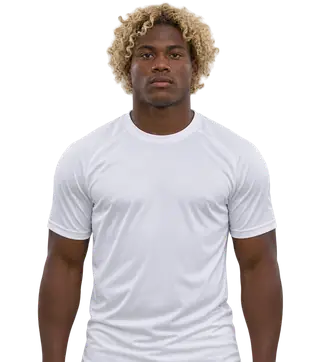
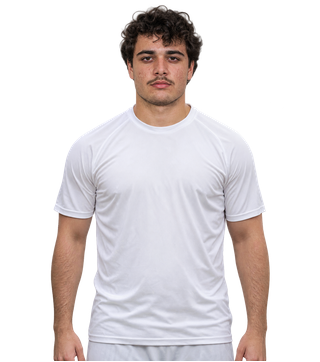
assets(portraits): complete 23/23 V4.1 WebP staging (#646)

Changed region(s): [[0.0938, 0.395, 0.9062, 1.0], [0.3125, 0.0, 0.6875, 0.395]]

diff --git a/docs/portrait-v41-integration-batch-2026-11-17.md b/docs/portrait-v41-integration-batch-2026-11-17.md
@@ -1,40 +1,49 @@
-# V4.1 portrait asset integration — partial batch (2026-11-17)
+# V4.1 portraits — 23/23 staged in Draft PR (2026-11-17)
 
 Issue #646 | PR #648 (Draft/HOLD)
 
-**Owner instruction:** integrate the portraits uploaded in ChatGPT, but **no merge, deployment, DEV/Production D1 writes, status/asset_key mutation or release**.
+**Scope of owner request:** integrate the uploaded portrait assets into the existing Draft PR only. **No merge, deploy, Production, DEV D1 update, portrait-profile status or asset_key mutation.** All V3 assets on `main` remain unchanged.
 
-## Staged in this Draft PR only
+## Staging history
 
-- **20 source PNG uploads actually available:** player IDs **44–63** inclusive. Each source file is native RGBA PNG, 1086×1448 vertical 3:4, with genuine alpha and zero-alpha corners.
-- For each ID, staged a **320×362 lossless transparent WebP** at the pre-existing path `assets/players/portraits/<id>.webp`. All 20 derivatives were decoded by Pillow and FFmpeg with **identical RGBA pixel arrays**, and measured significant alpha top **3–8px**, left/right subject clearance **>=20px** and horizontal centering **within ±8px**.
-- Original source PNGs are **not committed**, but are retained as user-provided local inputs. Exact source uploaded SHA-256 and staged WebP SHA-256 are in [the integration manifest](portrait-v41-integration-batch-2026-11-17.json).
-- **Explicit provenance limitation:** uploaded PNG SHA-256 hashes are not byte-identical to the original per-candidate hashes recorded in issue #646. These are identifiable user-supplied files by their ID basenames; the original issue-file byte identity is **not cryptographically re-proven**. This commit does not claim those old SHA checks apply to new byte streams. Visual preview and real-file technical QA were performed on the uploaded set.
-- **Not included yet:** #98 Arthur Kiesel, #145 Steven Sellen and #148 Craig Leaman. Three images were supplied inline after the 20 named PNG files, but **raw mountable PNG files were unavailable**, so those existing V3 WebPs remain untouched in the Draft branch. No image-to-ID inference from inline display.
-- The 23 V4.1 candidates have historical per-image QA reports in #646. This batch is **asset staging only**, not versioned V4.1 profile/snapshot migration.
-- **Release gate:** because this branch overwrites V3 asset paths for IDs 44–63, **do not merge before all intended assets, fingerprint-to-file mapping, owner visual confirmation, versioned V4.1 snapshots/rollback and release QA are approved separately**. The approved V3 files on `main` stay untouched until a separately authorised merge.
+- First batch: **20** user-uploaded PNGs with explicit ID filenames #44–#63, converted to 320×362 transparent lossless WebP and staged in commit [`3a54759`](https://github.com/FraGioco9/football-architect/commit/3a5475958ac9becb0d6e11a154e5d6d3a77327cf).
+- Final batch: **3** original PNG uploads `98(1).png`, `145(1).png`, `148(1).png` supplied by owner and staged at `assets/players/portraits/{98,145,148}.webp` in this Draft PR.
+- **All 23 intended IDs are now represented exactly once:** #44–#63, #98, #145, #148. No other player portrait asset was touched in this staging workflow.
 
-## Exact current batch
+## Real-file technical checks
 
[20 lines of base64/hex data omitted]
+For each newly received source: native **1086×1448 3:4 RGBA PNG**, true alpha with transparent corners; a source-preserving aspect-ratio resize on a transparent canvas produced **320×362 lossless transparent WebP**, inspected on light and dark composites. New files were independently decoded with **Pillow and FFmpeg**, yielding identical RGBA pixel arrays. Across all **23** staged WebPs, significant top-alpha clearance is **3–8 px**, side clearances **>=20 px**, and horizontal centring **within ±8 px**. Actual uploaded file hashes, generated WebP hashes, sizes and alpha geometry are in [the integration manifest](portrait-v41-integration-batch-2026-11-17.json).
 
-No images were generated by this GitHub commit. No D1/Production operations, deployment, merge or published-site asset replacement.
+**Explicit limitation:** The actual user-uploaded PNG bytes are **not SHA-256-identical to the original image candidates recorded as QA PASS** in issue #646 (including the final three). File-to-ID pairing is based on the supplied ID filenames and manual visual review; no cryptographic equivalence to the historical candidate PNG is claimed. The approved 2026-11-17 realistic QA threshold and historical per-candidate PASS records remain unchanged. The file provenance discrepancy must be acknowledged at release review.
+
+## Release hold — still mandatory
+
+This Draft branch stages new WebP bytes at existing V3 public asset paths, but it **does not** migrate/approve any V4.1 canonical snapshots or update `player_portrait_profiles`. Before a separately authorised merge/deploy, review the 23 staged assets and fingerprint-to-file associations, plan versioned V4.1 portrait-profile/snapshot migration and rollback, run the relevant QA/CI on the exact final head, and receive explicit owner release approval. **Do not merge while these gates are open.**
+
+## Staged asset audit
+
[23 lines of base64/hex data omitted]
+
+No image generation during staging. No database/Production writes, asset publication, merge, or deployment.
